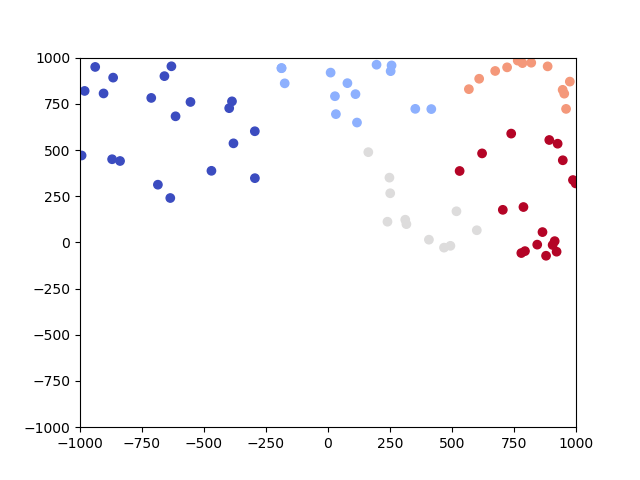
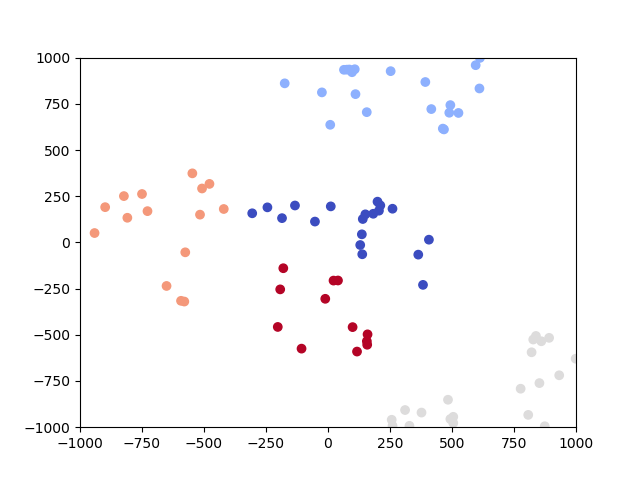
Merge branch 'master' of https://github.com/llmhyy/nn_active_learning
# Conflicts:
#	prj_test/formula_generator.py
#	prj_test/random_test.py

diff --git a/main/mid_point_active_learning.py b/main/mid_point_active_learning.py
@@ -160,9 +160,9 @@ class MidPointActiveLearner:
                 data_point_number_list.append(len(self.train_set_x))
 
                 predicted = tf.cast(aggregated_network.probability > 0.5, dtype=tf.float32)
-                # util.plot_decision_boundary(lambda x: sess.run(predicted, feed_dict={aggregated_network.X: x}),
-                #                             self.train_set_x, self.train_set_y, self.lower_bound, self.upper_bound,
-                #                             count)
+                util.plot_decision_boundary(lambda x: sess.run(predicted, feed_dict={aggregated_network.X: x}),
+                                            self.train_set_x, self.train_set_y, self.lower_bound, self.upper_bound,
+                                            count)
 
                 if len(self.train_set_x) > self.point_number_limit:
                     break

diff --git a/main/benchmark.py b/main/benchmark.py
@@ -29,9 +29,9 @@ def generate_accuracy(train_set_x, train_set_y, test_set_x, test_set_y, learning
             # print("loss: ", loss, "temp: ")
             loss_list.append(loss)
 
-        # util.plot_decision_boundary(lambda x: sess.run(predicted, feed_dict={net.X: x}),
-        #                             train_set_x[:data_size], train_set_y[:data_size],
-        #                             lower_bound, upper_bound, 0)
+        util.plot_decision_boundary(lambda x: sess.run(predicted, feed_dict={net.X: x}),
+                                    train_set_x[:data_size], train_set_y[:data_size],
+                                    lower_bound, upper_bound, 0)
 
         util.save_model(sess, model_folder, model_file)
         # for op in tf.get_default_graph().get_operations():

diff --git a/prj_test/random_test.py b/prj_test/random_test.py
@@ -24,6 +24,8 @@ train_set_x, train_set_y, test_set_x, test_set_y = formula_data_point_generation
                                                                                                            lower_bound,
                                                                                                            upper_bound,
                                                                                                            50, 50)
+print (train_set_x)
+print (train_set_y)
 label_tester = lt.FormulaLabelTester(f)
 train_set_x_info = label_tester.check_info(train_set_x)
 point_number_limit = 200
